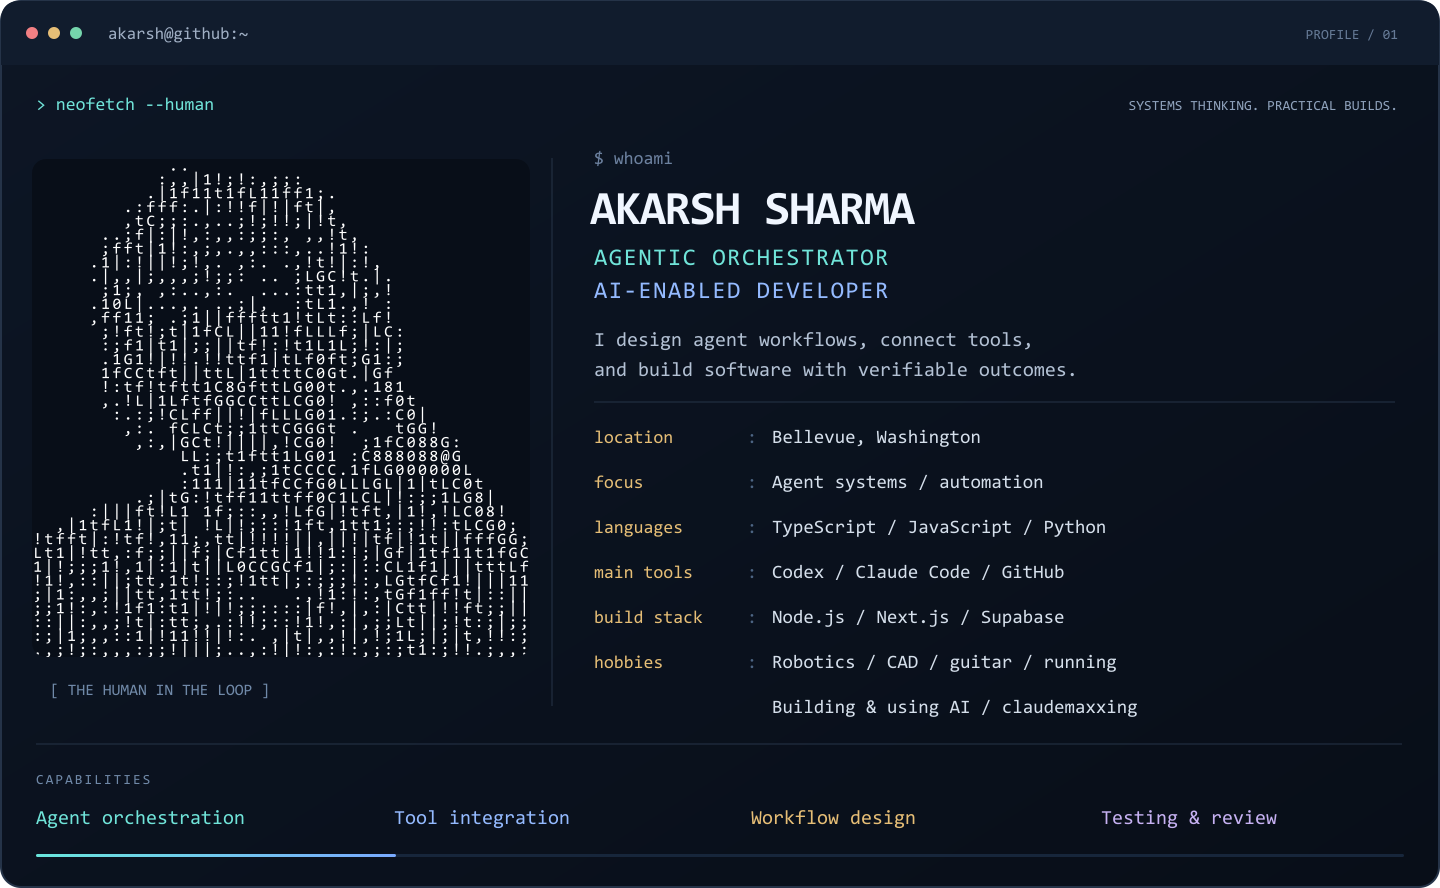
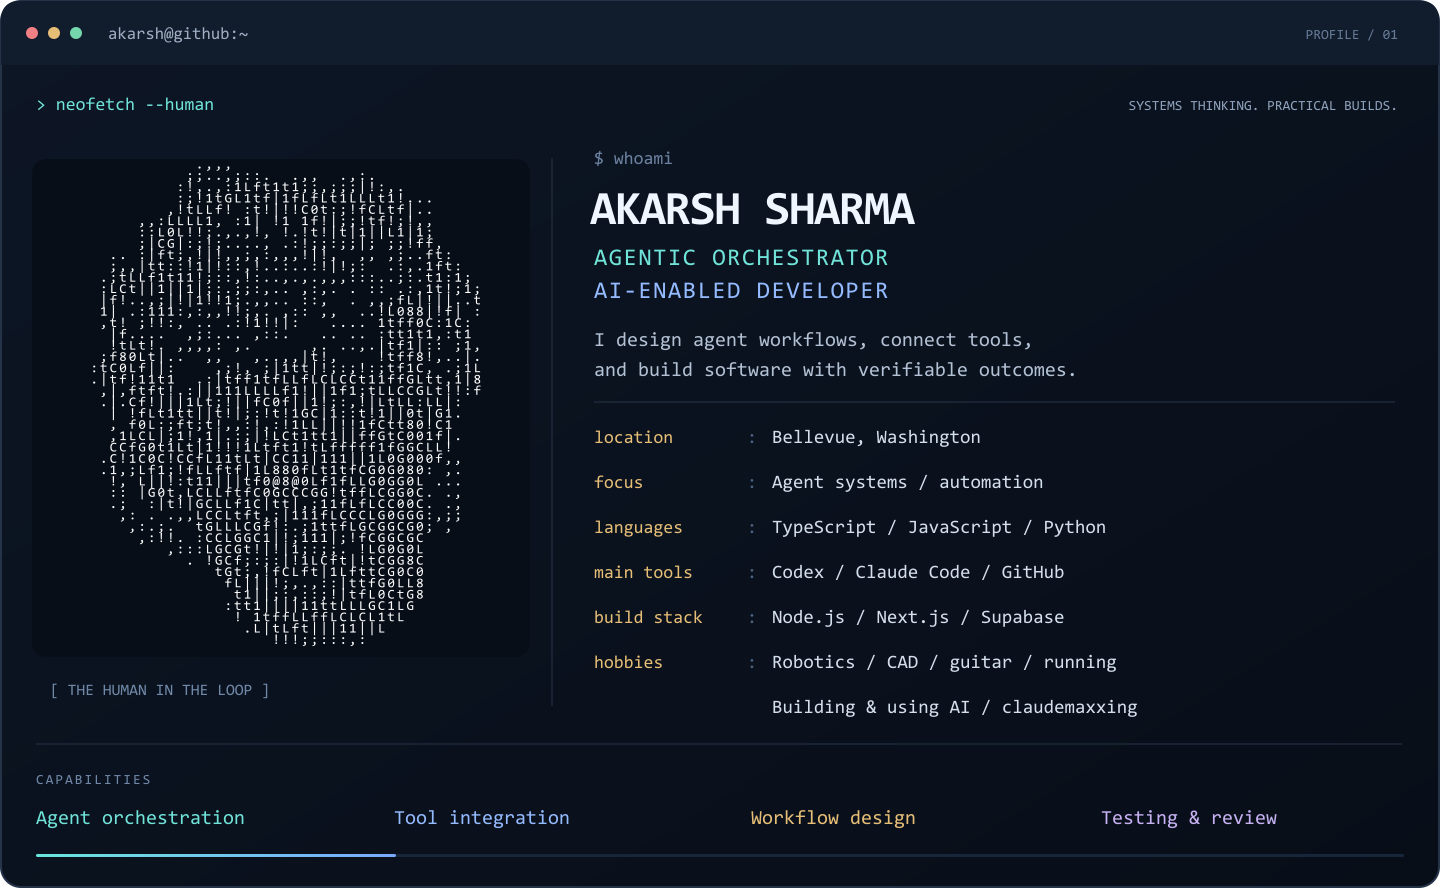
Focus ASCII portrait on face with clearer character detail

Changed region(s): [[0.0312, 0.1824, 0.375, 0.7297]]

diff --git a/DESIGN.md b/DESIGN.md
@@ -6,4 +6,4 @@ The supplied portrait was transformed using the built-in imagegen tool. Prompt: 
 
 Tool usage describes tasks, not measured usage percentages. Skills reflect public project sources. No credentials, age, email, or private repository details are included.
 
-The current portrait is a deterministic 44-column by 36-row ASCII rendering of the same white portrait. It uses white glyphs on dark navy. The source is downsampled from 1254 by 1254 pixels to a 44 by 36 luminance grid; the portrait display is 498 by 498 pixels. No face regeneration or source upscaling is used in this revision.
+The current portrait is a deterministic 52-column by 44-row ASCII rendering of a face crop from the same white portrait. It uses white glyphs on dark navy. The source crop is 730 by 900 pixels, padded horizontally to preserve proportions; a head outline excludes the shirt and hand. It is downsampled to the character grid and displayed at 498 by 498 pixels. No face regeneration or source upscaling is used in this revision.

diff --git a/README.md b/README.md
@@ -1,5 +1,5 @@
 <p align="center">
-  <img src="assets/profile.png" width="100%" alt="Akarsh Sharma — Agentic orchestrator and AI-enabled developer based in Bellevue, Washington. Same white portrait rendered with fewer characters on a 44-column by 36-row grid. Hobbies: robotics, CAD, guitar, running, building and using AI, and claudemaxxing." />
+  <img src="assets/profile.png" width="100%" alt="Akarsh Sharma — Agentic orchestrator and AI-enabled developer based in Bellevue, Washington. Face crop of the same white portrait rendered on a 52-column by 44-row ASCII grid. Hobbies: robotics, CAD, guitar, running, building and using AI, and claudemaxxing." />
 </p>
 
 I build agent workflows and AI-enabled software, connecting clear requirements, tools, implementation, and verification. My projects span portable agent skills, robotics tooling, adaptive learning, and public-source research.
